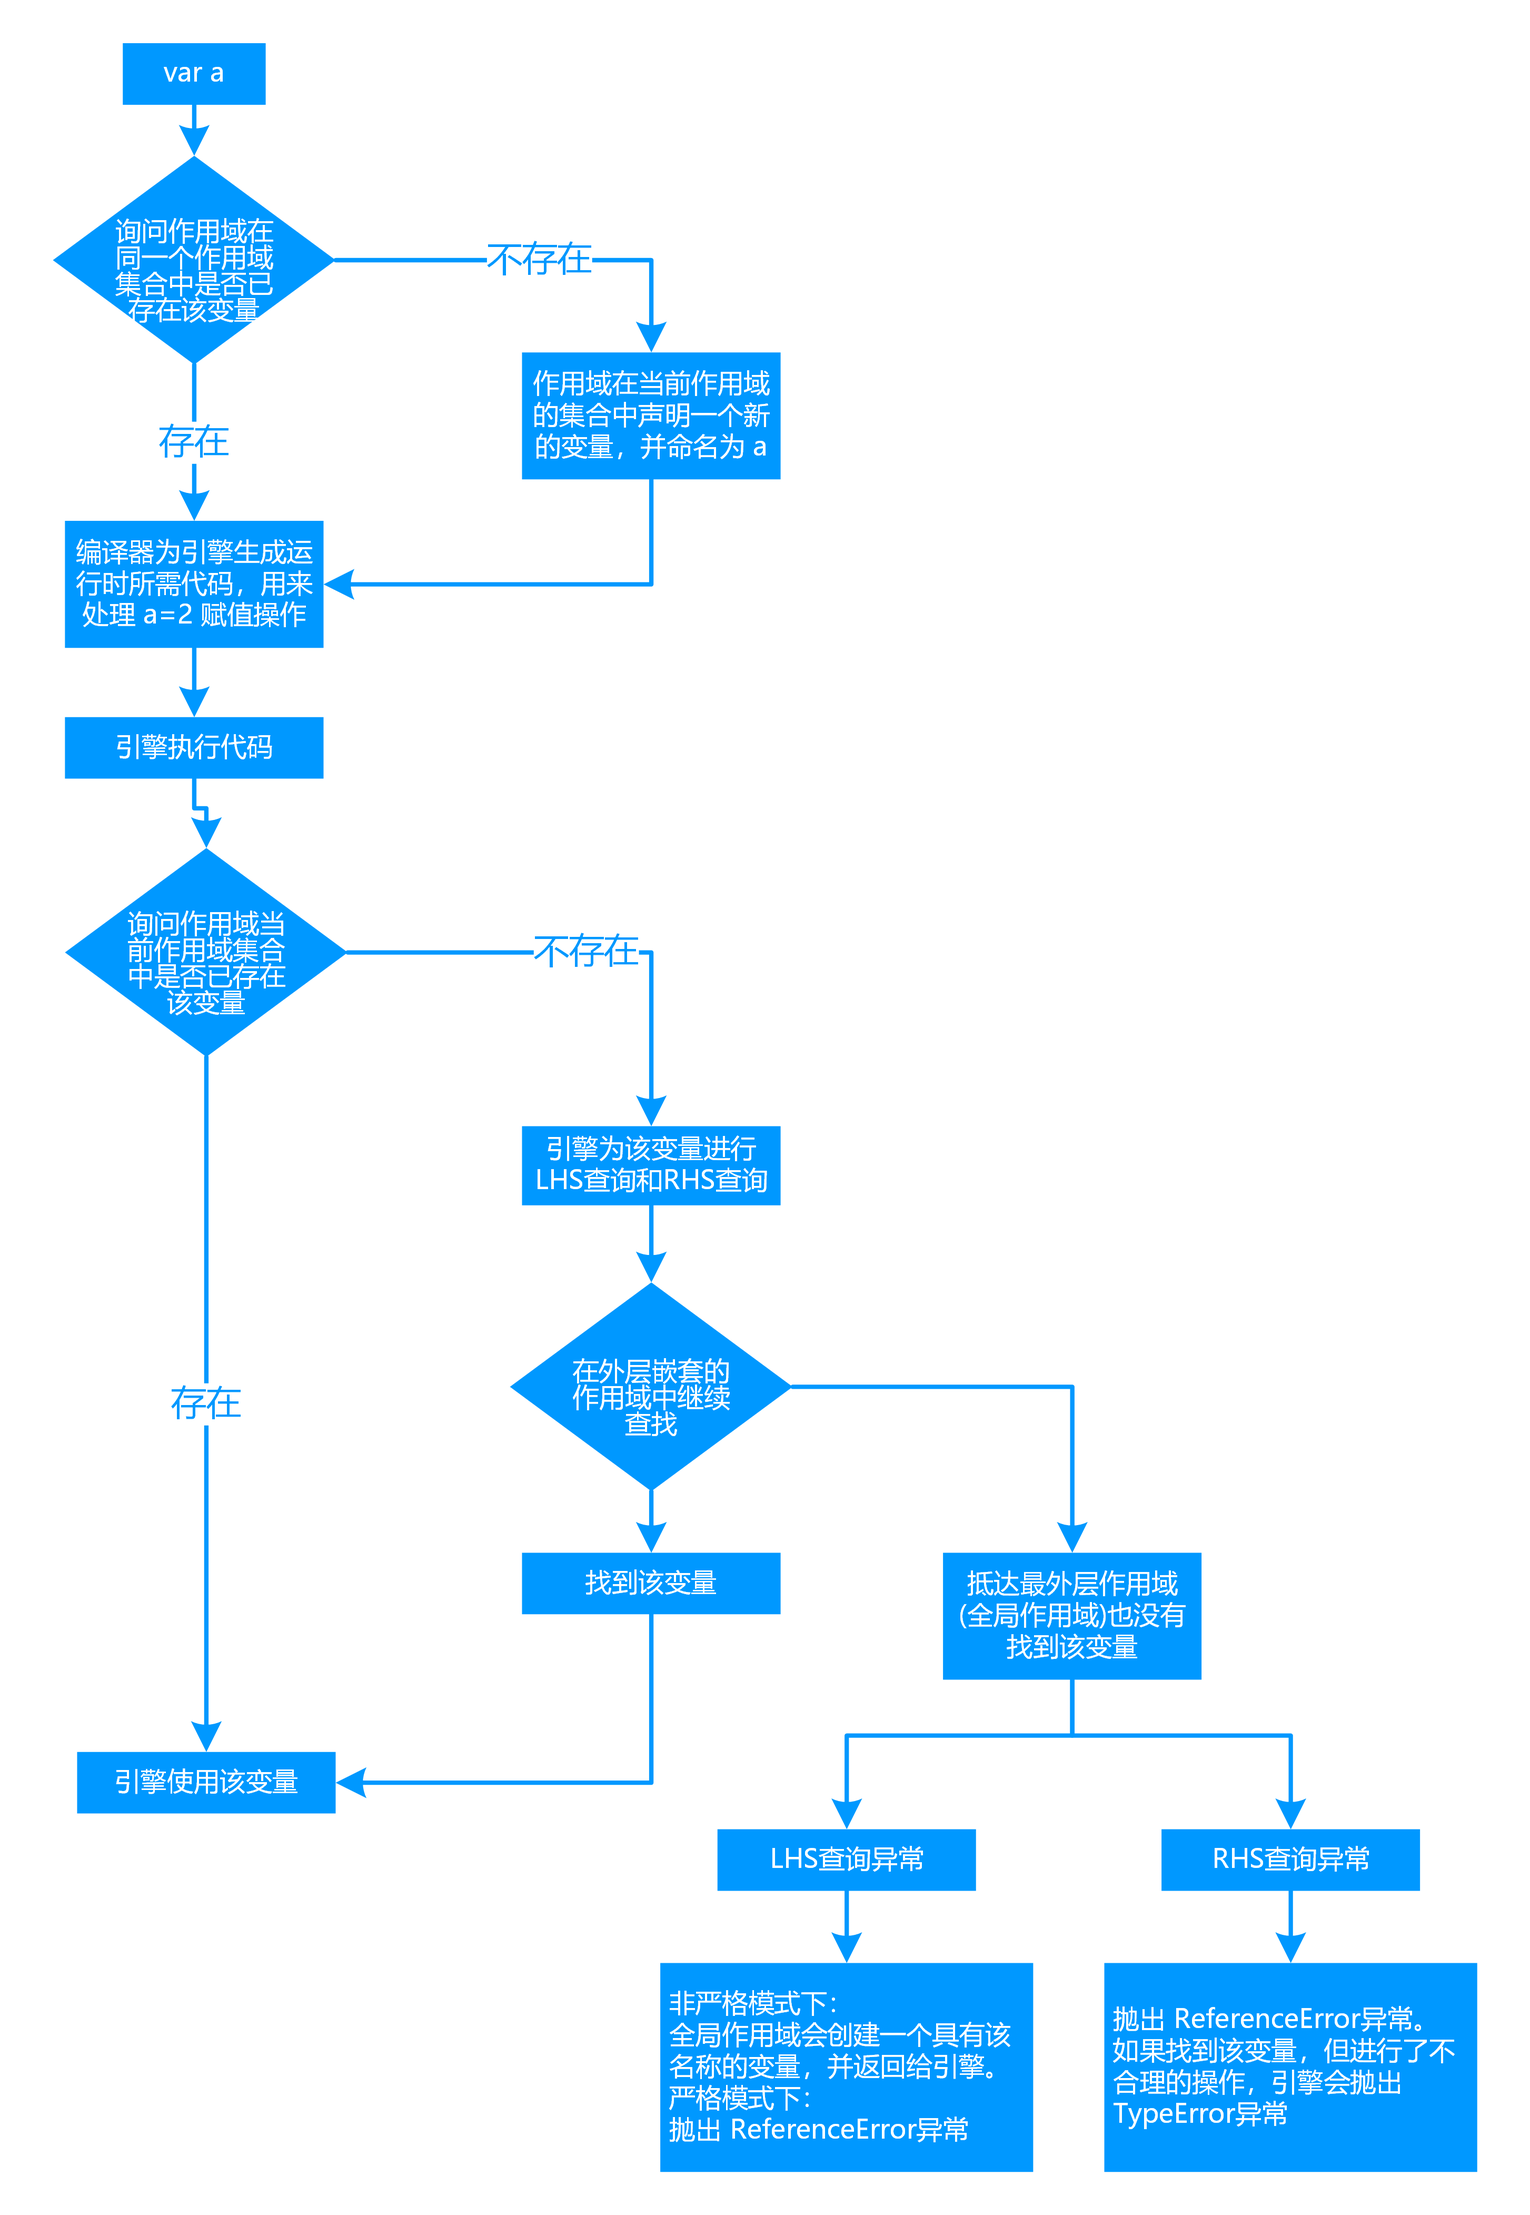
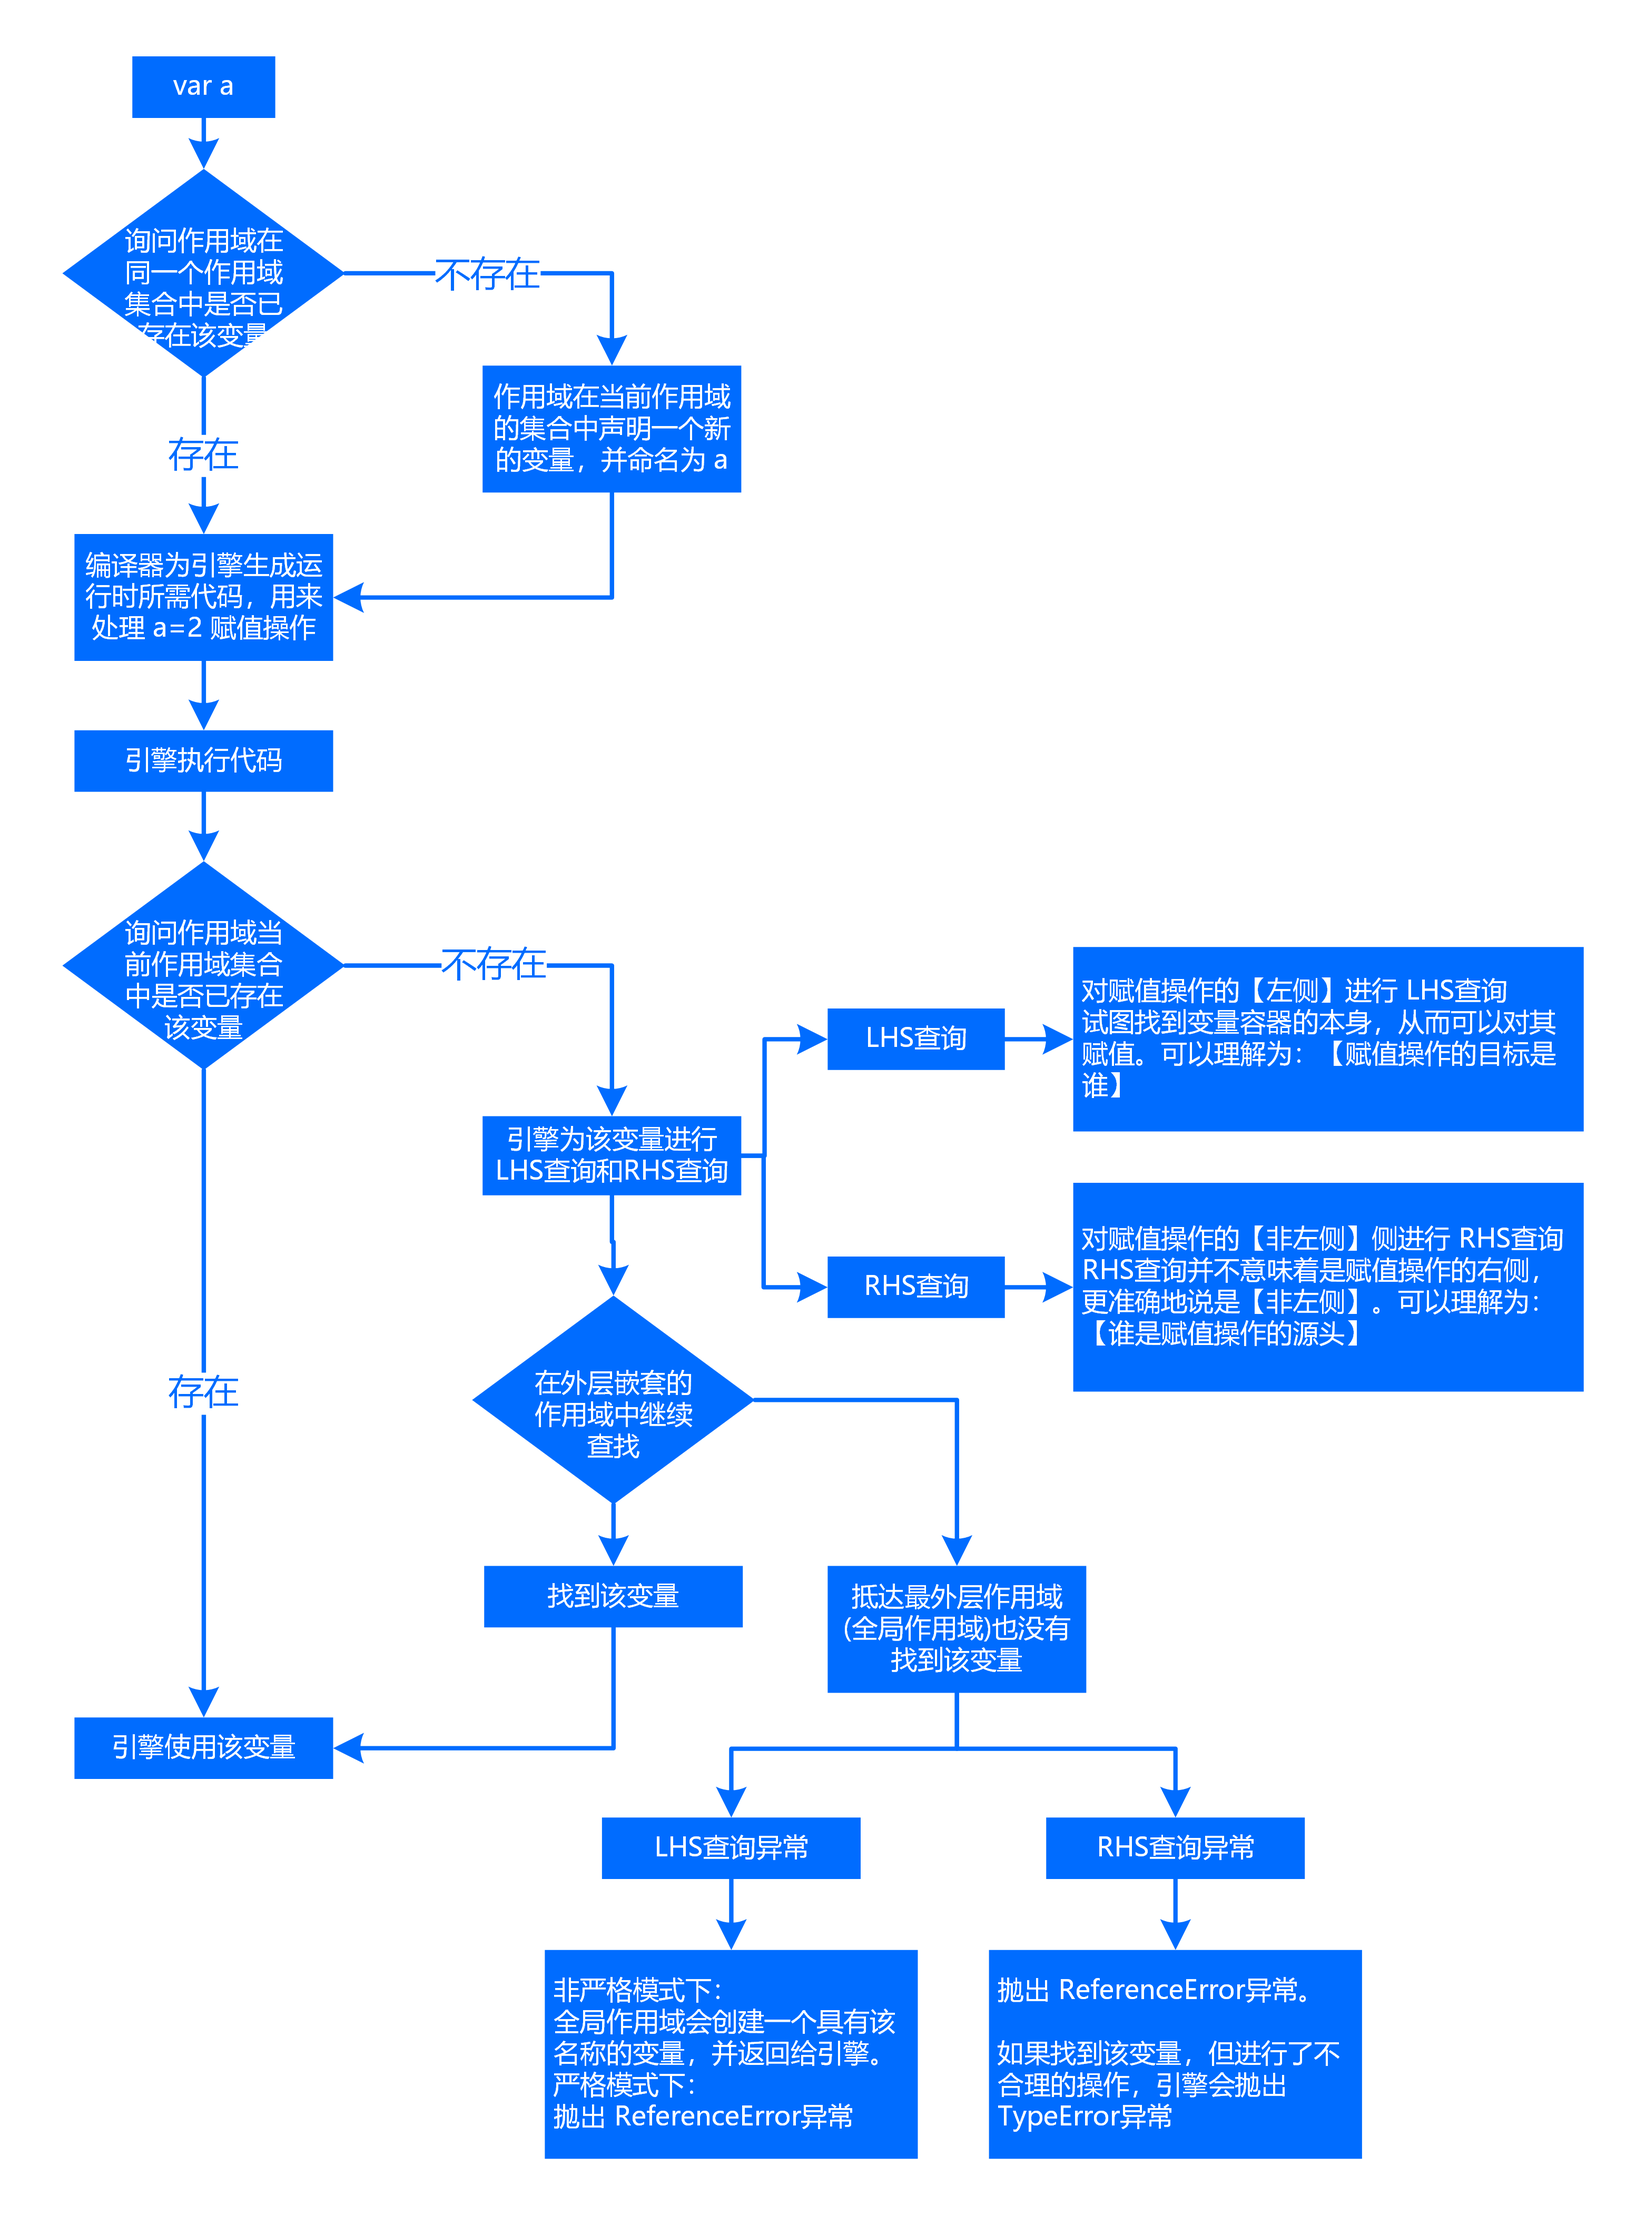
JavaScript

Changed region(s): [[0.031, 0.0, 0.9911, 0.9967]]

diff --git a/docs/javascript/scope.md b/docs/javascript/scope.md
@@ -59,49 +59,39 @@ JavaScript 引擎要复杂得多。例如，在语法分析和代码生成阶段
 
 ![scope_01](./files/images/scope_01.png)
 
-+ 引擎会为 `变量a` 进行 `LHS查询(Left Hand Side)` 和 `RHS查询(Right Hand Side)`。即：对赋值操作的左侧进行 `LHS查询`，右侧进行 `RHS查询`。但并不一定意味着就是 `=` 赋值操作符的左侧或右侧，赋值操作还有其他几种形式。
-  + `LHS查询`：试图找到变量的容器本身，从而可以对其赋值。可以理解为 **赋值操作的目标是谁**
-  + `RHS查询`：与简单地查找某个变量的值一样，RHS 并不是真正意义上的赋值操作的右侧，更准确地说是 **非左侧**。可以理解为 **谁是赋值操作的源头**。
++ 引擎进行 `LHS查询(Left Hand Side)` 和 `RHS查询(Right Hand Side)` 示例：
+  + 示例一
   
-  ``` javascript
-  // ====================
-  console.log(a);
-  // a 的引用是一个 RHS引用，因为 a 并没有赋予任何值。相应地，需要查找并取得 a 的值，才能将值传递给 console.log(...)
+    ``` javascript
+    console.log(a);
+    ```
 
-  // ====================
-  a = 2;
-  // a 的引用是 LHS引用，因为实际上并不关心当前的值是什么，只是需要为 =2 这个赋值操作找到一个目标
-
-  // ====================
-  function foo(a) {
-    console.log(a); // 2
-  }
-  foo(2);
-  // 调用 foo(...) 需要对 foo 进行 RHS引用，意味着需要找到 foo 的值，并进行返回。并且 (...) 意味着 foo 的值需要被执行，因此它最好真的是一个函数类型的值
-  // 代码中隐式的 a=2 操作可能会被忽略掉。这个操作发生在 2 被当做参数传值给 foo(...)函数时，2 会被分配给 参数a。为了给 参数a （隐式地）分配值，需要进行一次 LHS查询
-  // 还对 a 进行了 RHS引用，将得到的值传给了 console.log(...)。 console.log(...) 本身也需要一个引用才能执行。因此会对 console 对象进行 RHS查询，并且检查得到的值中是否有一个叫作 log 的方法
-  // 在概念上可以理解为在 LHS 和 RHS 之间通过对 值2 进行交互来将其传递进log(..)（通过 变量a 的 RHS查询）。假设在 log(..)函数 的原生实现中它可以接受参数，在将 2 赋值给其中第一个（也许叫作arg1）参数之前，这个参数需要进行 LHS引用查询。
-  // 注意：可能会倾向于将函数声明 function foo(a) {... 概念化为普通的变量声明和赋值，比如 var foo、foo = function(a) {...。如果这样理解的话，这个函数声明将需要进行 LHS查询。然而还有一个重要的细微差别，编译器可以在代码生成的同时处理声明和值的定义，比如在引擎执行代码时，并不会有线程专门用来将一个函数值“分配给”foo。因此，将函数声明理解成前面讨论的 LHS查询和赋值的形式并不合适。
-  ```
-
-+ 当一个块或函数嵌套在另一个块或函数中时，就发生了作用域的嵌套。因此，在当前作用域中无法找到某个变量时，引擎就会在外层嵌套的作用域中继续查找，直到找到该变量，或抵达最外层的作用域（也就是全局作用域）为止。
-
-+ 在变量还没有声明（在任何作用域中都无法找到该变量）的情况下，`LHS查询` 和 `RHS查询` 的行为是不一样的。
-
-  + `LHS查询`
-    + 程序运行在**非严格模式**下：全局作用域会创建一个具有该名称的变量，并将其返还给引擎。
-    + 程序运行在**严格模式**下：引擎就会抛出 `ReferenceError异常`(作用域判别失败相关)
-  + `RHS查询`：引擎就会抛出 `ReferenceError异常`
+    + `a` 的引用是一个 `RHS引用`，因为 `a` 并没有赋予任何值。
+  + 示例二
   
-    如果 `RHS查询` 找到一个变量，但对这个变量的值进行不合理的操作。引擎会抛出 `TypeError异常`(作用域判别成功，但对结果操作时非法的)
+    ``` javascript
+    function foo(a) {
+      console.log(a); // 2
+    }
+    foo(2);
+    ```
+
+    + 调用 `foo(...)` 需要对 `foo` 进行 `RHS引用`，意味着"去找到 `foo` 的值，并把
+      它给我"。并且 `(...)` 意味着 `foo` 的值需要被执行，因此它最好真的是一个函数类型的值!
+    + 代码中存在**隐式**的 `a = 2`。这个操作发生在 `2` 被当做参数传值给 `foo(...)函数` 时，`2` 会被分配给 `参数a`。为了给 `参数a` (隐式地)分配值，需要进行一次 `LHS查询`
+    + `参数a` 还进行了 `RHS引用`。将得到的值传给了 `console.log(...)`。 `console.log(...)` 本身也需要一个引用才能执行。因此会对 `console对象` 进行 `RHS查询`，并且检查得到的值中是否有一个叫作 `log` 的方法
+  
+    在概念上可以理解为在 `LHS` 和 `RHS` 之间通过对 `值2` 进行交互来将其传递进 `log(...)`（通过 `变量a` 的 `RHS查询`）。假设在 `log(..)函数` 的原生实现中它可以接受参数，在将 `值2` 赋值给其中第一个（也许叫作arg1）参数之前，这个参数需要进行 `LHS引用查询`。
+
+    注意：对于函数声明 `function foo(a) {...` 可能会倾向于函数声明概念化为普通的变量声明和赋值，比如 `var foo、foo = function(a) {...`。如果这样理解的话，这个函数声明将需要进行 `LHS查询`。然而还有一个**重要的细微差别**，**编译器可以在代码生成的同时处理声明和值的定义**，比如在引擎执行代码时，并不会有线程专门用来将一个函数值“分配给” `foo`。因此，将函数声明理解成前面讨论的 `LHS查询` 和 `赋值` 的形式并不合适。
 
 ## 词法作用域
 
-词法作用域就是定义在词法阶段的作用域。即：**由在写代码时将变量和块作用域写在哪里来决定的**，因此当词法分析器处理代码时会保持作用域不变（大部分情况下是这样的）。
+**词法作用域就是定义在词法阶段的作用域**。即：**由在写代码时将变量和块作用域写在哪里来决定的**，因此当词法分析器处理代码时会保持作用域不变（大部分情况下是这样的）。
+
+**作用域查找会在找到第一个匹配的标识符时停止。在多层的嵌套作用域中可以定义同名的标识符，这叫作遮蔽效应（内部的标识符遮蔽了外部的标识符）** 。
 
 ![scope_02](./files/images/scope_02.png)
-
-**作用域查找会在找到第一个匹配的标识符时停止。**在多层的嵌套作用域中可以定义同名的标识符，这叫作**遮蔽效应**（内部的标识符**遮蔽**了外部的标识符）。
 
 无论函数在哪里被调用，也无论它如何被调用，它的词法作用域都只由函数被声明时所处的位置决定。
 
@@ -146,7 +136,7 @@ JavaScript 引擎要复杂得多。例如，在语法分析和代码生成阶段
   // with 可以将一个没有或有多个属性的对象处理为一个完全隔离的词法作用域，因此这个对象的属性也会被处理为定义在这个作用域中的词法标识符。
   ```
 
-JavaScript 引擎会在编译阶段进行数项的性能优化。其中有些优化依赖于能够根据代码的词法进行静态分析，并预先确定所有变量和函数的定义位置，才能在执行过程中快速找到标识符。但如果引擎在代码中发现了eval(..) 或with，它只能简单地假设关于标识符位置的判断都是无效的，因为无法在词法分析阶段明确知道eval(..) 会接收到什么代码，这些代码会如何对作用域进行修改，也无法知道传递给with 用来创建新词法作用域的对象的内容到底是什么。
+JavaScript 引擎会在编译阶段进行数项的性能优化。其中有些优化依赖于能够根据代码的词法进行静态分析，并预先确定所有变量和函数的定义位置，才能在执行过程中快速找到标识符。但如果引擎在代码中发现了 `eval(..)` 或 `with`，它只能简单地假设关于标识符位置的判断都是无效的，因为无法在词法分析阶段明确知道 `eval(..)` 会接收到什么代码，这些代码会如何对作用域进行修改，也无法知道传递给 `with` 用来创建新词法作用域的对象的内容到底是什么。
 
 ## 函数作用域和块作用域
 
@@ -154,14 +144,11 @@ JavaScript 引擎会在编译阶段进行数项的性能优化。其中有些优
 
 函数作用域的含义是指：属于这个函数的全部变量都可以在整个函数的范围内使用及复用（事实上在嵌套的作用域中也可以使用）。
 
-**区分函数声明和表达式最简单的方法**：看 `function` 关键字出现在声明中的位置（不仅仅是一行代码，而是整个声明中的位置）。如果 `function` 是声明中
-的第一个词，那么就是一个函数声明，否则就是一个函数表达式。
+**区分函数声明和表达式最简单的方法**：看 `function` 关键字出现在声明中的位置（不仅仅是一行代码，而是整个声明中的位置）。如果 `function` 是声明中的第一个词，那么就是一个函数声明，否则就是一个函数表达式。
 
-+ 匿名函数（没有名称标识符）和具名函数
-  
-  匿名函数的缺点
++ 匿名函数的缺点
   + 匿名函数在栈追踪中不会显示出有意义的函数名，使得调试很困难
-  + 如果没有函数名，当函数需要引用自身时只能使用已经过期的arguments.callee 引用
+  + 如果没有函数名，当函数需要引用自身时只能使用已经过期的 `arguments.callee` 引用
   + 匿名函数省略了对于代码可读性/可理解性很重要的函数名。
 + 立即执行函数表达式
   + `(function(){...}())`
@@ -169,7 +156,7 @@ JavaScript 引擎会在编译阶段进行数项的性能优化。其中有些优
 
 ### 隐藏内部实现
 
-把变量和函数包裹在一个函数的作用域中，然后用这个作用域来“隐藏”它们。
+**把变量和函数包裹在一个函数的作用域中，然后用这个作用域来“隐藏”它们。**
 
 + 最小授权或最小暴露原则：在软件设计中，应该最小限度地暴露必要内容，而将其他内容都“隐藏”起来。
 
@@ -210,7 +197,7 @@ JavaScript 引擎会在编译阶段进行数项的性能优化。其中有些优
   + 使用 `let` 进行的声明不会在块作用域中进行提升
 + `const`
 
-## 提升
+## 变量提升和函数声明提升
 
 + 只有声明本身会被提升，而赋值或其他运行逻辑会留在原地。
 + 每个作用域都会进行提升操作。
